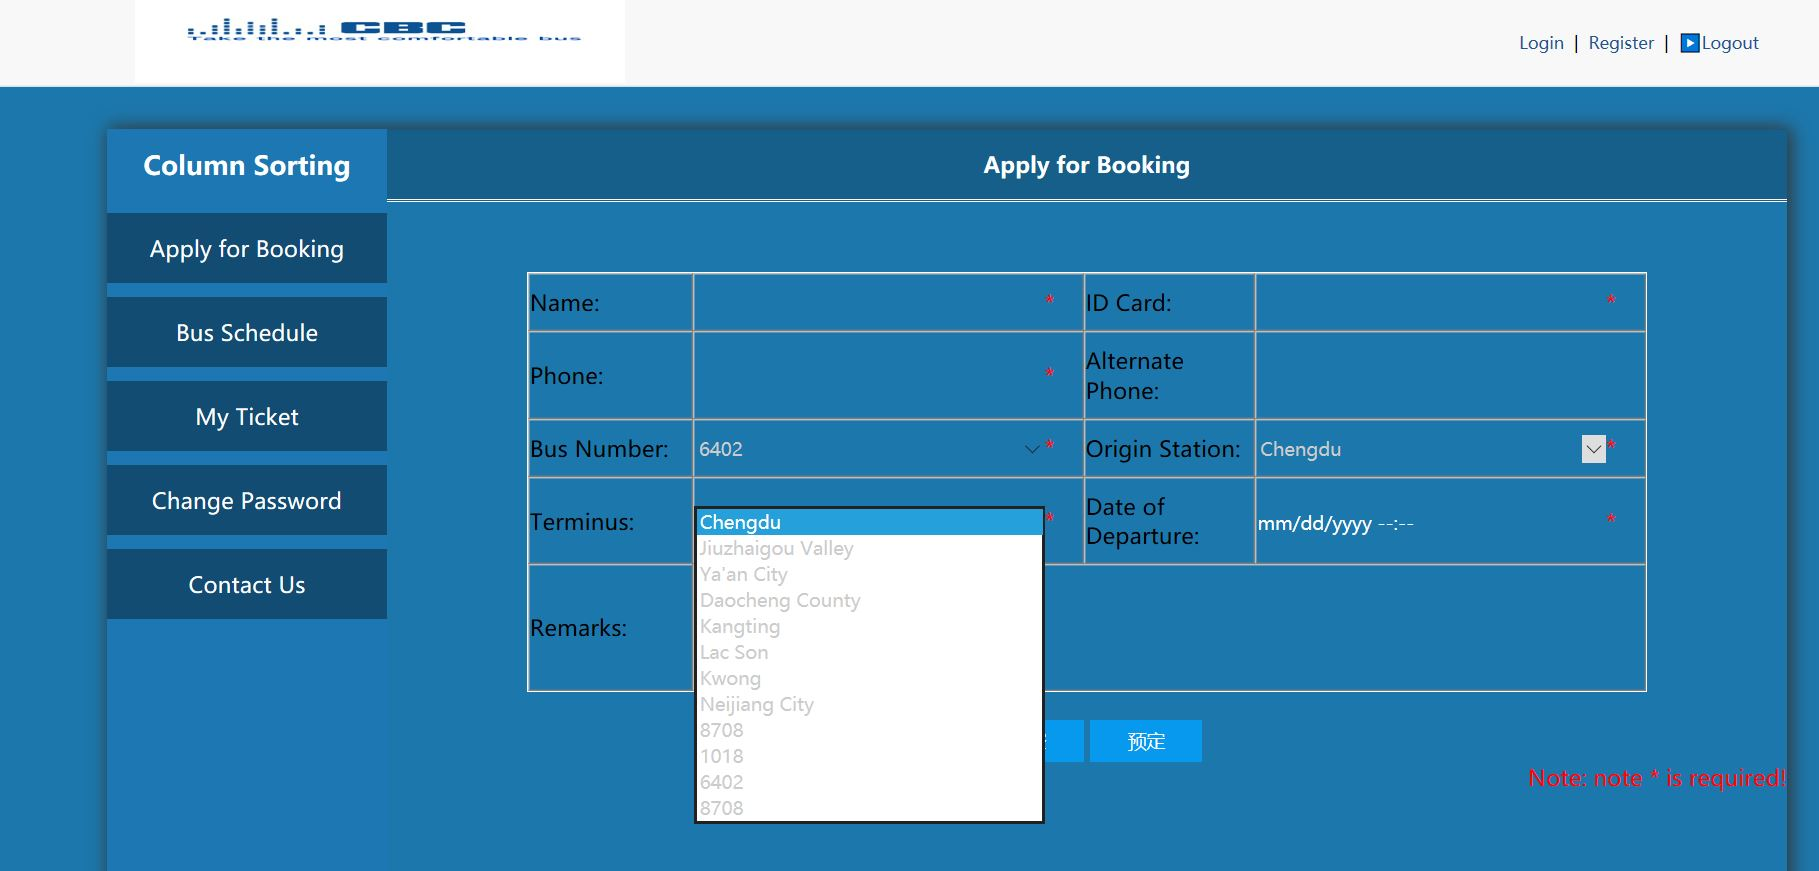
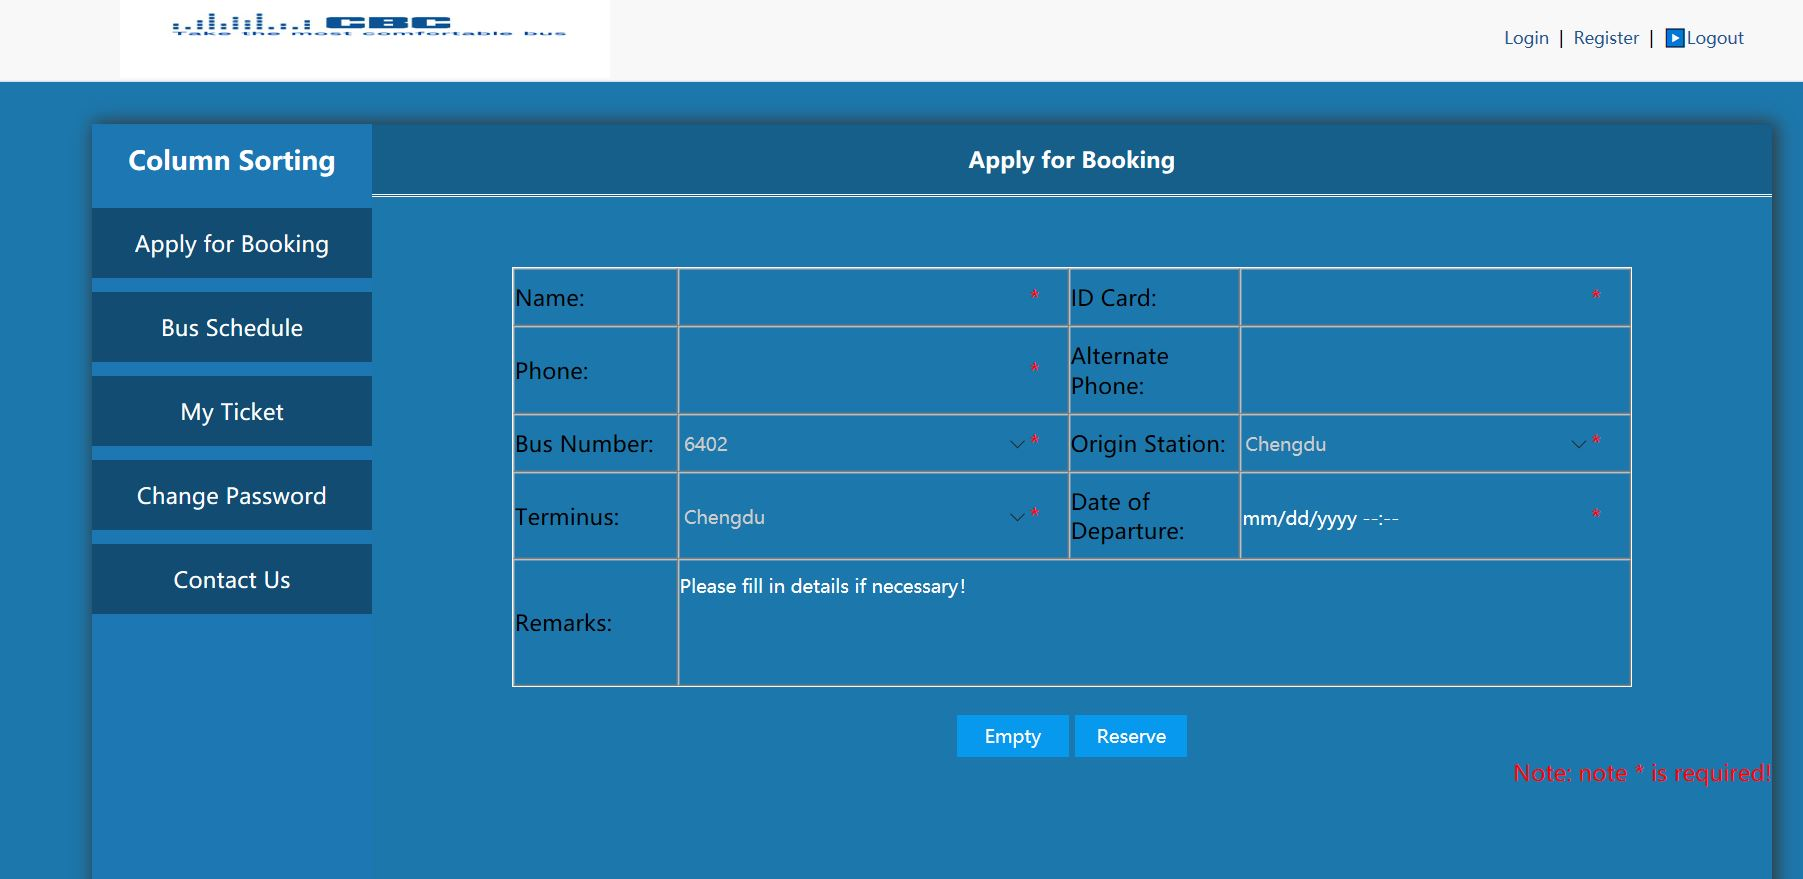
new change

diff --git a/interface.html b/interface.html
@@ -84,10 +84,10 @@
         <option>Lac Son</option>
         <option>Kwong</option>
         <option>Neijiang City</option>
-        <option>8708</option>
-        <option>1018</option>
-        <option>6402</option>
-        <option>8708</option>
+        <option>Mount Emei</option>
+        <option>Dujiang Dam</option>
+        <option>Conch's Ditch</option>
+        <option>Xilin Snow Hill</option>
         
     </select><span>*</span></td>
       
@@ -101,9 +101,9 @@
     </tr>
 </table>
 <div class="tom" style="margin-top:20px;">
-<input name="clear" style="width:80px; height:30px;" type="reset" value="清空" />
+<input name="clear" style="width:80px; height:30px;" type="reset" value="Empty" />
 
-<input name="play" style="width:80px; height:30px; " type="submit" value="预定" />
+<input name="play" style="width:80px; height:30px; " type="submit" value="Reserve" />
 
 </div>
 <span style="float:right;">Note: note * is required!</span>
